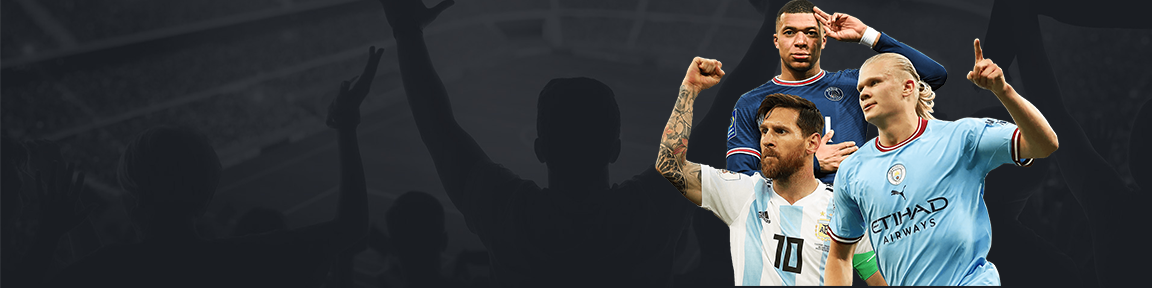
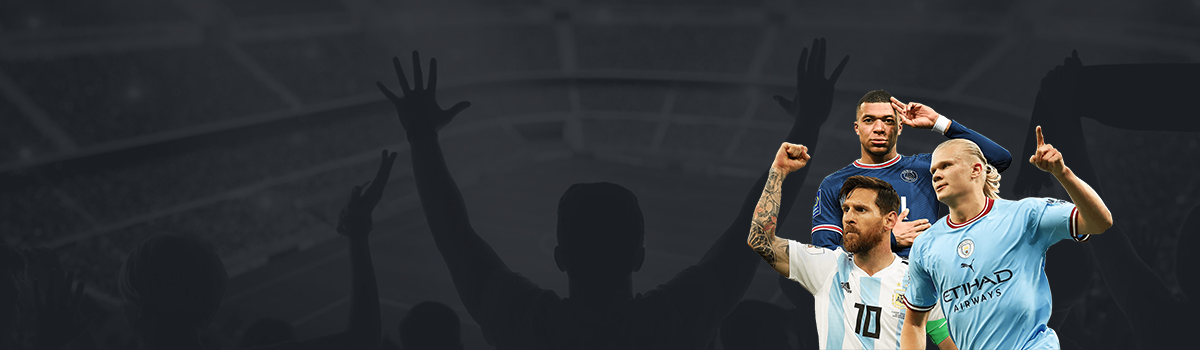
Tamcoder

Changed region(s): [[0.5625, 0.0, 0.9375, 1.0], [0.4688, 0.3125, 0.5, 0.4375], [0.3438, 0.0312, 0.375, 0.0625]]

diff --git a/LayoutAdmin/adddatamatch.html b/LayoutAdmin/adddatamatch.html
@@ -1,32 +1,38 @@
 <title>{{namepage}} - Dashboard FulltimeTV</title>
-<form action="/adddata#!/adddatamatch/Add%20Data%20Match" method="post" class="form-match" id="manage-form">
+<form action="/adddata#!/adddatamatch/Add%20Data%20Match" method="post" class="form-match"
+    name="manageform">
     <h5>Thông tin trận đấu</h5>
 
     <div class="form-group">
         <label class="form-label" for="name-tournament">Tên giải đấu:</label> <br>
-        <input id="name-tournament" type="text" name="tournament" class="form-input"
+        <input id="name-tournament" type="text" name="tournament" ng-model="tournament" required class="form-input"
             placeholder="Nhập tên trận đấu..." /><br>
-        <span class="form-message"></span>
+        <span class="form-message" ng-show="manageform.tournament.$touched && manageform.tournament.$invalid">Vui lòng
+            nhập trường này !</span>
     </div>
 
     <div class="form-group">
         <label class="form-label" for="name-team-one">Tên Team 1:</label> <br>
-        <input id="name-team-one" type="text" name="teamone" class="form-input"
+        <input id="name-team-one" type="text" name="teamone" ng-model="teamone" required class="form-input"
             placeholder="Nhập tên team 1..." /><br>
-        <span class="form-message"></span>
+        <span class="form-message" ng-show="manageform.teamone.$touched && manageform.teamone.$invalid">Vui lòng
+            nhập trường này !</span>
     </div>
 
     <div class="form-group">
         <label class="form-label" for="name-team-two">Tên Team 2:</label> <br>
-        <input id="name-team-two" type="text" name="teamtwo" class="form-input"
+        <input id="name-team-two" type="text" name="teamtwo" ng-model="teamtwo" required class="form-input"
             placeholder="Nhập tên team 2..." /><br>
-        <span class="form-message"></span>
+        <span class="form-message" ng-show="manageform.teamtwo.$touched && manageform.teamtwo.$invalid">Vui lòng
+            nhập trường này !</span>
     </div>
 
     <div class="form-group">
         <label class="form-label" for="url-link">Link phát trận đấu:</label> <br>
-        <input id="url-link" type="text" name="link" class="form-input" placeholder="Nhập link..." /><br>
-        <span class="form-message"></span>
+        <input id="url-link" type="text" name="link" ng-model="link" required class="form-input"
+            placeholder="Nhập link..." /><br>
+        <span class="form-message" ng-show="manageform.link.$touched && manageform.link.$invalid">Vui lòng
+            nhập trường này !</span>
     </div>
 
     <div class="text-center mt-3">

diff --git a/Layout/LoginAdmin.html b/Layout/LoginAdmin.html
@@ -1,0 +1,25 @@
+<title>{{namepage}} - FulltimeTV</title>
+
+<div class="div-login">
+    <form action="/Admin/index.html" name="manageform" id="manage-form" novalidate>
+        <h5>Login Admin</h5>
+        <div class="form-group">
+            <label class="form-label" for="Username">Username</label><br>
+            <input name="Username" ng-model="Username" required type="text" class="form-input"
+                placeholder="Nhập Username or Gmail..." /><br>
+            <span class="form-message" ng-show="manageform.Username.$touched && manageform.Username.$invalid">Vui lòng
+                nhập trường này !</span>
+        </div>
+
+        <div class="form-group">
+            <label class="form-label" for="Password">Password</label> <br>
+            <input name="Password" ng-model="Password" required type="password" class="form-input"
+                placeholder="Nhập password..." /><br>
+            <span class="form-message" ng-show="manageform.Password.$touched && manageform.Password.$invalid">Vui lòng
+                nhập trường này !</span>
+        </div>
+        <div class="text-center mt-3">
+            <a href="./Admin/index.html"><button type="submit" class="button-login" ng-disabled="manageform.Username.$dirty && manageform.Username.$invalid ||  manageform.Password.$dirty && manageform.Password.$invalid">Login</button></a>
+        </div>
+    </form>
+</div>

diff --git a/Layout/footer.html b/Layout/footer.html
@@ -388,10 +388,10 @@
     <div class="content">
         <div class="mt-5">
             <p>
-                Mọi trận đấu cho dù giải nhỏ cho tới các giải đấu lớn thì <a href="">Fulltime TV</a> đều cung cấp đầy đủ
+                Mọi trận đấu cho dù giải nhỏ cho tới các giải đấu lớn thì <a href="#">Fulltime TV</a> đều cung cấp đầy đủ
                 link xem trực tiếp bóng đá online với độ phân giải và chất lượng cao nhất. <br> Ngoài việc xem bóng đá
                 trực tuyến, chúng tôi còngửi tới bạn đọc lịch thi đấu bóng đá, kết quả bóng đá. Chúc
-                bạn đọc xem bóng đá vui vẻ và luôn ủng hộ Fulltime TV.</p>
+                bạn đọc xem bóng đá vui vẻ và luôn ủng hộ <a href="#">Fulltime TV</a>.</p>
             <div class="col-md-4 col-sm-6 col-xs-12 mt-3">
                 <ul class="social-icons">
                     <li><a class="facebook" href="#"><i class='bx bxl-facebook-square'></i></a></li>
@@ -405,7 +405,7 @@
         </div>
 
         <div><a class="image" href="#"><img src="./Public/Images/fulltimesportworld.png" width="150%" alt=""></a>
-            <p>©2022 By TamTruong Coder</p>
+            <p>©2022 By <a href="#">TamTruong Coder</a></p>
         </div>
     </div>
 </div>

diff --git a/Public/AngularJS/Angularmain.js b/Public/AngularJS/Angularmain.js
@@ -31,6 +31,17 @@ app.controller('myctrl', ($scope, $http, $sce) => {
       alert('Error Loading DataLinkWeb')
     }
   )
+
+  // function submit form          
+  $scope.submitForm = function () {
+    alert($scope.Username)
+    // Kiểm tra nếu form ok, thì xuất thông báo
+    if ($scope.Username == 'tamtruong') {
+      alert('Form Validation thành công');
+    } else {
+      alert('Error');
+    }
+  }
 })
 
 app.config(function ($routeProvider) {
@@ -42,6 +53,10 @@ app.config(function ($routeProvider) {
     .when('/Other/:namepage', {
       templateUrl: './Layout/Other.html',
       controller: 'OtherCtrl'
+    })
+    .when('/LoginAdmin/:namepage', {
+      templateUrl: './Layout/LoginAdmin.html',
+      controller: 'LoginAdminCtrl'
     })
     .when('/Live/:id/:teamone/:teamtwo/:tournament', {
       templateUrl: './Layout/Live.html',
@@ -62,6 +77,9 @@ app.controller('LinkCtrl', function ($scope, $routeParams) {
   $scope.namepage = $routeParams.namepage
 })
 app.controller('OtherCtrl', function ($scope, $routeParams) {
+  $scope.namepage = $routeParams.namepage
+})
+app.controller('LoginAdminCtrl', function ($scope, $routeParams) {
   $scope.namepage = $routeParams.namepage
 })
 

diff --git a/Layout/header.html b/Layout/header.html
@@ -1,4 +1,4 @@
-<nav class="navbar navbar-expand-sm fixed-top text-center">
+<nav class="navbar navbar-expand-sm fixed-top text-center format-header">
   <div class="container-fluid nav">
     <a class="navbar-brand" href="./index.html"><img src="./Public/assets/icon.png" alt=""></a>
     <button class="navbar-toggler" type="button" data-bs-toggle="collapse" data-bs-target="#mynavbar">
@@ -16,10 +16,10 @@
         <li class="nav-item">
           <a class="nav-link" href="#!Other/Other"><i class='bx bxs-message-square-add'></i> OTHER</a>
         </li>
+        <div class="icon-login">
+          <a href="#!LoginAdmin/Login Admin"><i class='bx bxs-user-circle Icon-Login-admin'></i></a>
+        </div>
       </ul>
-    </div>
-    <div>
-      <a class="nav-link" href="../LoginAdmin.html">Admin</a>
     </div>
   </div>
 </nav>

diff --git a/index.html b/index.html
@@ -32,14 +32,15 @@
     <link rel="stylesheet" href="./Public/Css/header.css">
     <link rel="stylesheet" href="./Public/Css/style.css">
     <link rel="stylesheet" href="./Public/Css/footer.css">
+    <link rel="stylesheet" href="./Public/Css/admin.css">
 
     <!-- AngularJS -->
-    <script src="./Public/AngularJS/Angularmain.js"></script>
-
+<script src="./Public/AngularJS/Angularmain.js"></script>
 
 </head>
 
 <body ng-app="myapp" ng-controller="myctrl">
+    
     <!-- Header -->
     <div ng-include="'./Layout/header.html'"></div>
 
@@ -47,10 +48,7 @@
     <div ng-view></div>
 
     <!-- Footer -->
-    <footer ng-include="'./Layout/footer.html'">
-
-    </footer>
+    <footer ng-include="'./Layout/footer.html'"></footer>
 
 </body>
-
 </html>

diff --git a/LayoutAdmin/menu.html b/LayoutAdmin/menu.html
@@ -4,12 +4,8 @@
     <span>Dashboard</span>
   </li>
   <li class="nav-item menu-dashboard">
-    <a class="nav-link" href="#!adddatamatch/Add Data Match"><i class='bx bxs-message-square-add icon-size'></i></a>
+    <a class="nav-link" href="#!adddatamatch/Add Data Match"><i class='bx bxs-message-square-add icon-size color-icon-add'></i></a>
     <span>Add Data</span>
-  </li>
-  <li class="nav-item menu-dashboard">
-    <a class="nav-link" href="#!deletedatamatch/Delete Data Match"><i class='bx bxs-message-square-x icon-size'></i></a>
-    <span>Delete Data</span>
   </li>
   <li class="nav-item menu-dashboard">
     <a class="nav-link" href="../index.html"><i class='bx bxs-exit icon-size'></i></a>

diff --git a/LayoutAdmin/dashboard.html b/LayoutAdmin/dashboard.html
@@ -15,7 +15,7 @@
         <td>
             <form action="/deldata" method="post" class="d-flex">
                 <input type="number" style="display: none;" readonly value="{{data.id}}" name="id">
-                <!-- <button class="button-editor-admin">Chỉnh sửa</button> -->
+                <button type="button" class="button-editor-admin">Chỉnh sửa</button>
                 <button class="button-delete-admin" type="submit" ng-click="mess()">Xóa</button>
             </form>
         </td>

diff --git a/Public/Css/header.css b/Public/Css/header.css
@@ -1,5 +1,5 @@
-.navbar {
-    background-color: rgb(0, 0, 0);
+.nav-link {
+    font-weight: 900;
 }
 .nav {
     margin: auto;
@@ -25,4 +25,16 @@
 }
 .video-div {
     padding-top: 90px;
+}
+/* login admin */
+.icon-login {
+    margin-left: 300px;
+}
+
+.Icon-Login-admin {
+    font-size: 40px;
+    color: white;
+}
+.Icon-Login-admin:hover {
+    color: rgb(0, 0, 0);
 }

diff --git a/Public/Css/style.css b/Public/Css/style.css
@@ -10,7 +10,8 @@ footer {
 .section>img {
     width: 100%;
     height: auto;
-    margin-top: 85px;
+
+
 }
 /* main */
 .div-main {
@@ -191,6 +192,11 @@ iframe {
 .button-login:hover {
     background-color: rgb(0, 148, 22);
     color: white;
+}
+
+.format-header {
+    background-image: url('../Images/background_barner.png');
+    background-size: 100%;
 }
 
 

diff --git a/Public/AngularJS/AngularAdmin.js b/Public/AngularJS/AngularAdmin.js
@@ -11,13 +11,6 @@ app.controller('myctrl', ($scope, $http, $sce) => {
       alert('Error Loading DataMatch')
     }
   )
-
-  $scope.mess = function () {
-    const message = confirm('Bạn chắc chắn muốn xóa nó chứ ?')
-    if (message) {
-      Redirect('../admin/index.html')
-    }
-  }
   
 })
 app.config(function ($routeProvider) {

diff --git a/Public/Js/Jsmain.js b/Public/Js/Jsmain.js
@@ -1,6 +1,7 @@
 const $ = document.querySelector.bind(document)
 const $$ = document.querySelectorAll.bind(document)
 
+
 const formElement = $('#manage-form')
 // Xử ký Form
 const inputElements = $$('.form-input')
@@ -54,4 +55,3 @@ const restInput = () => {
   $('#Username').value = ''
   $('#Password').value = ''
 }
-
